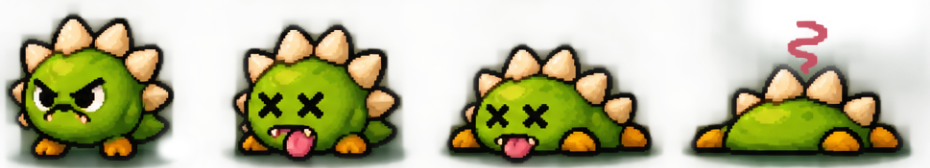
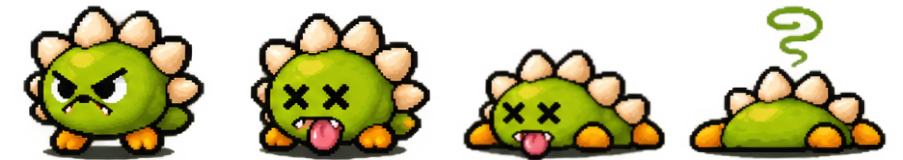
feat: QA03 -> enemy sprites fixed

diff --git a/js/constants.js b/js/constants.js
@@ -4,7 +4,7 @@
   const FPS = 1000 / 60
   const AUDIO_VOL = 1
 
-  const START_LEVEL = 1
+  const START_LEVEL = 3
   const MAX_LEVEL = 1
 // ---------------------
 
@@ -77,8 +77,8 @@
   const ENEMY_DIED_SPRITE_FREQUENCY = 10
 
   // setup
-  const ENEMY_W = 218 / 2
-  const ENEMY_H = 159 / 2
+  const ENEMY_W = 225 / 2
+  const ENEMY_H = 160 / 2
   const ENEMY_SPRITE_COLS = 6
   const ENEMY_SPRITE_ROWS = 1
   
